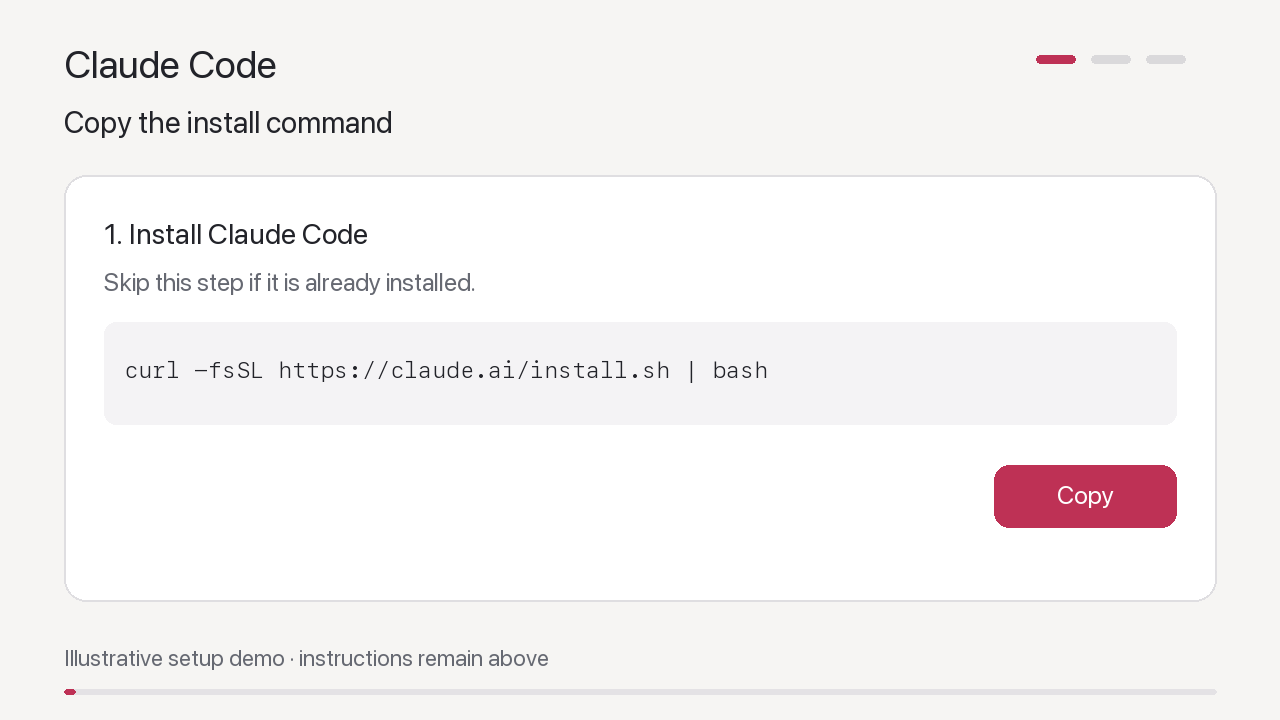
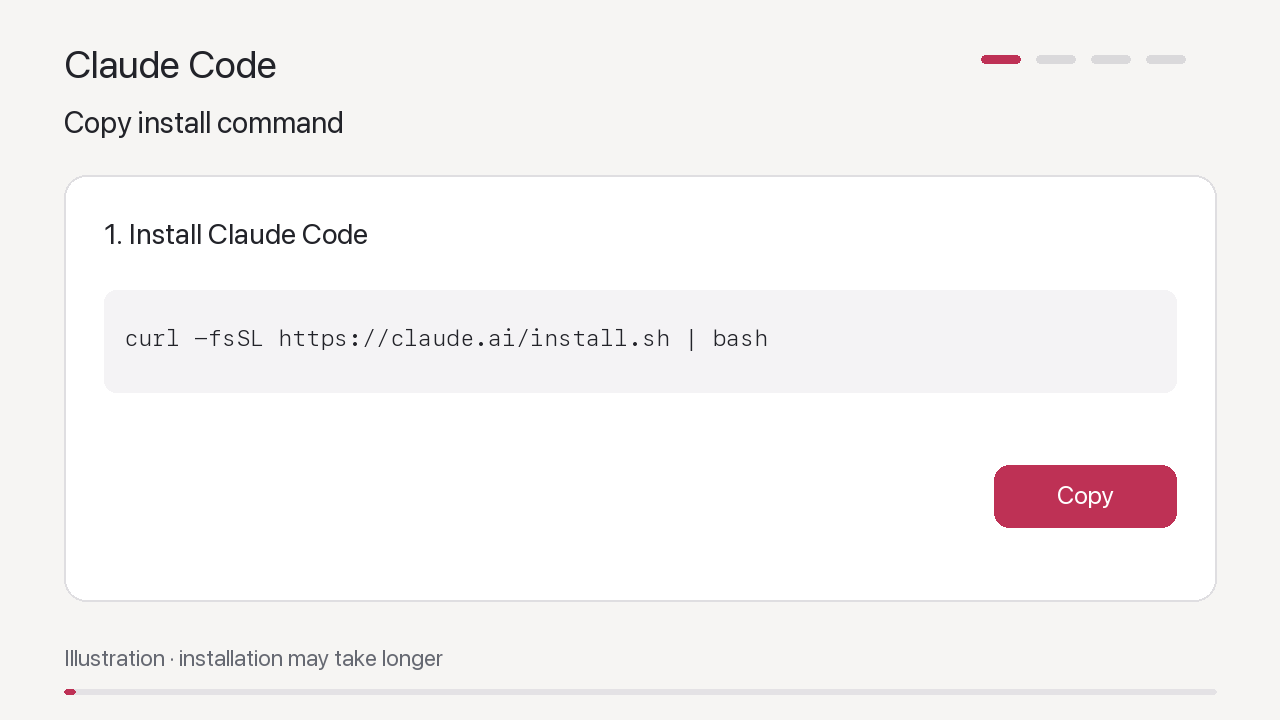
Refine macOS setup branding, instructions and animation pace

diff --git a/macos/AgentMeter/Views/SetupDemoView.swift b/macos/AgentMeter/Views/SetupDemoView.swift
@@ -4,47 +4,24 @@ import SwiftUI
 struct SetupDemoView: View {
   let provider: ProviderID
   @Environment(\.accessibilityReduceMotion) private var reduceMotion
-  @State private var playing = true
-  @State private var replayID = 0
   private var name: String { provider == .codex ? "CodexSetup" : "ClaudeSetup" }
   private var providerTitle: String { provider == .codex ? "Codex" : "Claude Code" }
   var body: some View {
-    VStack(alignment: .leading, spacing: 10) {
-      HStack {
-        Text("Setup demo").font(.headline)
-        Spacer()
-        if !reduceMotion {
-          Button {
-            playing.toggle()
-          } label: {
-            Label(playing ? "Pause" : "Play", systemImage: playing ? "pause.fill" : "play.fill")
-          }.buttonStyle(.borderless).font(.caption)
-          Button {
-            replayID += 1
-            playing = true
-          } label: {
-            Label("Replay", systemImage: "arrow.counterclockwise")
-          }.buttonStyle(.borderless).font(.caption)
-        }
-      }
-      AnimatedSetupImage(name: name, playing: playing, replayID: replayID, reduceMotion: reduceMotion)
-        .aspectRatio(16.0 / 9.0, contentMode: .fit)
-        .frame(maxWidth: .infinity)
-        .clipShape(RoundedRectangle(cornerRadius: 10))
-        .overlay(RoundedRectangle(cornerRadius: 10).stroke(.primary.opacity(0.08), lineWidth: 1))
-        .accessibilityLabel("\(providerTitle) setup demo. Copy the install command into Terminal, then run the sign-in command.")
-    }.padding(.top, 8)
+    AnimatedSetupImage(name: name, reduceMotion: reduceMotion)
+      .aspectRatio(16.0 / 9.0, contentMode: .fit)
+      .frame(maxWidth: .infinity)
+      .clipShape(RoundedRectangle(cornerRadius: 10))
+      .overlay(RoundedRectangle(cornerRadius: 10).stroke(.primary.opacity(0.08), lineWidth: 1))
+      .accessibilityLabel("How to install \(providerTitle) and sign in using Terminal.")
+      .padding(.top, 8)
   }
 }
 
 private struct AnimatedSetupImage: NSViewRepresentable {
   let name: String
-  let playing: Bool
-  let replayID: Int
   let reduceMotion: Bool
   final class Coordinator {
     var resource: String?
-    var replayID = -1
   }
   func makeCoordinator() -> Coordinator { Coordinator() }
   func makeNSView(context: Context) -> NSImageView {
@@ -59,16 +36,15 @@ private struct AnimatedSetupImage: NSViewRepresentable {
   func updateNSView(_ view: NSImageView, context: Context) {
     let fileExtension = reduceMotion ? "png" : "gif"
     let resource = "\(name).\(fileExtension)"
-    if context.coordinator.resource != resource || context.coordinator.replayID != replayID {
+    if context.coordinator.resource != resource {
       view.animates = false
       view.image = nil
       if let url = Bundle.main.url(forResource: name, withExtension: fileExtension) {
         view.image = NSImage(contentsOf: url)
       }
       context.coordinator.resource = resource
-      context.coordinator.replayID = replayID
     }
-    view.animates = playing && !reduceMotion
+    view.animates = !reduceMotion
   }
   static func dismantleNSView(_ view: NSImageView, coordinator: Coordinator) {
     view.animates = false

diff --git a/macos/AgentMeter/Views/SetupView.swift b/macos/AgentMeter/Views/SetupView.swift
@@ -110,21 +110,14 @@ struct SetupView: View {
     }
   }
   private func providerInstructions(_ provider: ProviderID) -> some View {
-    VStack(alignment: .leading, spacing: 16) {
+    VStack(alignment: .leading, spacing: 22) {
       heading(provider == .codex ? "Set up Codex" : "Set up Claude Code",
         "Llumi uses the locally installed command-line tool. Install it and sign in to get started.")
-      Text("Open Terminal from Applications → Utilities. Copy each command, paste it into Terminal, then press Return.")
+      Text("Open Terminal, paste each command, then press Return.")
         .font(.callout).foregroundStyle(.secondary)
       CommandBlock(title: "1. Install \(provider == .codex ? "Codex" : "Claude Code")",
-        explanation: provider == .codex ? "Installs Codex using Homebrew. Skip this if Codex is already installed." : "Runs Anthropic’s official installer. Skip this if Claude Code is already installed.",
         command: ProviderSetup.install(provider))
-      if provider == .codex {
-        Text("Homebrew is required for this command. If you don’t have it, the official guide also offers a standalone installer.")
-          .font(.caption).foregroundStyle(.secondary)
-      }
-      CommandBlock(title: "2. Sign in", explanation: provider == .codex
-        ? "Opens Codex’s sign-in flow. Choose your ChatGPT subscription account."
-        : "Opens Claude Code’s sign-in flow. Choose your Claude subscription account, not Console/API billing.",
+      CommandBlock(title: "2. Sign in",
         command: ProviderSetup.login(provider))
       HStack {
         checkAgain
@@ -159,13 +152,11 @@ struct ProviderSwitchRow: View {
 
 private struct CommandBlock: View {
   let title: String
-  let explanation: String
   let command: String
   @State private var copied = false
   var body: some View {
-    VStack(alignment: .leading, spacing: 7) {
+    VStack(alignment: .leading, spacing: 10) {
       Text(title).font(.headline)
-      Text(explanation).font(.callout).foregroundStyle(.secondary)
       HStack(spacing: 12) {
         Text(command).font(.system(.callout, design: .monospaced)).textSelection(.enabled)
           .frame(maxWidth: .infinity, alignment: .leading)

diff --git a/macos/AgentMeter/Views/Brand.swift b/macos/AgentMeter/Views/Brand.swift
@@ -1,23 +1,19 @@
+import AppKit
 import SwiftUI
 
 struct MeterMark: View {
   var dimension: CGFloat = 22
+  private static let appIcon = Bundle.main.url(forResource: "Llumi", withExtension: "icns")
+    .flatMap { NSImage(contentsOf: $0) }
   var body: some View {
-    Canvas { context, size in
-      var arc = Path()
-      arc.move(to: CGPoint(x: size.width * 0.12, y: size.height * 0.72))
-      arc.addCurve(to: CGPoint(x: size.width * 0.88, y: size.height * 0.72),
-        control1: CGPoint(x: size.width * 0.12, y: size.height * 0.1),
-        control2: CGPoint(x: size.width * 0.88, y: size.height * 0.1))
-      context.stroke(arc, with: .foreground, style: StrokeStyle(lineWidth: size.width * 2.5 / 22, lineCap: .round))
-      var needle = Path()
-      needle.move(to: CGPoint(x: size.width * 0.47, y: size.height * 0.64))
-      needle.addLine(to: CGPoint(x: size.width * 0.75, y: size.height * 0.35))
-      needle.addLine(to: CGPoint(x: size.width * 0.55, y: size.height * 0.75))
-      needle.closeSubpath()
-      context.fill(needle, with: .foreground)
-      context.fill(Path(ellipseIn: CGRect(x: size.width * 0.43, y: size.height * 0.63,
-        width: size.width * 0.16, height: size.height * 0.16)), with: .foreground)
+    Group {
+      if let appIcon = Self.appIcon {
+        Image(nsImage: appIcon)
+          .renderingMode(.original)
+          .resizable()
+          .interpolation(.high)
+          .scaledToFit()
+      }
     }.frame(width: dimension, height: dimension).accessibilityHidden(true)
   }
 }

diff --git a/scripts/macos/generate-setup-demos.py b/scripts/macos/generate-setup-demos.py
@@ -1,5 +1,5 @@
 #!/usr/bin/env python3
-"""Render illustrative, five-second setup guides. Requires Pillow; no live accounts.
+"""Render illustrative, ten-second setup guides. Requires Pillow; no live accounts.
 
 Commands mirror ProviderSetup. Terminal/browser artwork is synthetic and installation
 waits are explicitly shortened. System fonts are local build inputs, not bundled.
@@ -35,23 +35,20 @@ def frame(provider, install, login, index):
     image = Image.new("RGB", SIZE, BG)
     draw = ImageDraw.Draw(image)
     stage = 0 if index < 30 else 1 if index < 60 else 2 if index < 80 else 3
-    labels = ["Copy the install command", "Paste into Terminal · press Return",
-              "Run the sign-in command", "Complete sign-in in your browser"]
+    labels = ["Copy install command", "Paste into Terminal and press Return",
+              "Run sign-in command", "Finish signing in"]
     text(draw, (64, 40), provider, 39)
     text(draw, (64, 104), labels[stage], 30)
-    for step in range(3):
-        draw.rounded_rectangle((1036 + step * 55, 55, 1075 + step * 55, 63),
-                               radius=4, fill=ACCENT if step <= min(stage, 2) else "#dad9db")
+    for step in range(4):
+        draw.rounded_rectangle((981 + step * 55, 55, 1020 + step * 55, 63),
+                               radius=4, fill=ACCENT if step <= stage else "#dad9db")
     panel = (64, 175, 1216, 601)
     draw.rounded_rectangle(panel, radius=22, fill="white", outline="#dfdee1", width=2)
     if stage == 0:
         text(draw, (104, 215), "1. Install " + provider, 29)
-        text(draw, (104, 266), "Skip this step if it is already installed.", 25, MUTED)
-        draw.rounded_rectangle((104, 322, 1176, 424), radius=12, fill="#f4f3f5")
-        text(draw, (124, 355), install, 23, mono=True)
+        draw.rounded_rectangle((104, 290, 1176, 392), radius=12, fill="#f4f3f5")
+        text(draw, (124, 323), install, 23, mono=True)
         button(draw, (994, 465, 1176, 527), "Copied" if index > 15 else "Copy")
-        if index > 15:
-            text(draw, (104, 482), "Next, open Terminal.", 26, MUTED)
     elif stage in (1, 2):
         draw.rounded_rectangle((64, 175, 1216, 234), radius=22, fill="#f0eff1")
         draw.rectangle((65, 206, 1215, 234), fill="#f0eff1")
@@ -61,17 +58,14 @@ def frame(provider, install, login, index):
         if stage == 1:
             text(draw, (105, 278), "$ " + install, 24, mono=True)
             text(draw, (105, 346), "Installing…", 27, MUTED)
-            text(draw, (105, 524), "Installation time shortened in this demo", 23, MUTED)
         else:
             text(draw, (105, 278), "$ " + login, 28, mono=True)
-            text(draw, (105, 347), "Your browser opens for sign-in.", 29, MUTED)
     else:
         text(draw, (104, 211), "Browser sign-in", 24, MUTED)
         text(draw, (104, 302), "Sign in to " + ("ChatGPT" if provider == "Codex" else "Claude"), 42)
-        text(draw, (104, 379), "Use the subscription account you want to monitor.", 27, MUTED)
         button(draw, (104, 462, 347, 528), "Continue")
-        text(draw, (397, 479), "Then return to Llumi and choose Retry.", 27, MUTED)
-    text(draw, (64, 643), "Illustrative setup demo · instructions remain above", 23, MUTED)
+        text(draw, (397, 479), "Return to Llumi → Retry", 27, MUTED)
+    text(draw, (64, 643), "Illustration · installation may take longer", 23, MUTED)
     draw.rounded_rectangle((64, 689, 1216, 694), radius=3, fill="#e4e2e5")
     draw.rounded_rectangle((64, 689, 64 + max(4, int(1152 * (index + 1) / 100)), 694), radius=3, fill=ACCENT)
     return image
@@ -86,8 +80,8 @@ def main():
         frames = [frame(provider, install, login, i) for i in range(100)]
         frames[0].save(OUT / (name + ".png"), optimize=True)
         frames[0].save(OUT / (name + ".gif"), save_all=True, append_images=frames[1:],
-                       duration=50, loop=0, optimize=True, disposal=2)
-        print(name + ": 1280×720, 5 seconds; synthetic terminal/browser artwork")
+                       duration=100, loop=0, optimize=True, disposal=2)
+        print(name + ": 1280×720, 10 seconds; synthetic terminal/browser artwork")
 
 
 if __name__ == "__main__":

diff --git a/docs/releases/2026-10-macos-1.1.3-preview.md b/docs/releases/2026-10-macos-1.1.3-preview.md
@@ -6,7 +6,9 @@ Version 1.1.3/build 3 is a local review candidate on 5 October 2026. The owner r
 
 - Light setup and a minimal welcome screen; light appearance migrates once, then later choices are respected.
 - Persistent Codex/Claude monitoring switches in setup and Settings. Disabled providers stop usage/activity work and disappear from Usage and the monitor.
-- Simplified setup copy with bundled five-second illustrative demos, pause/replay controls and reduced-motion posters.
+- Simplified provider setup with two copy-only command steps and a short Terminal instruction; installation, prerequisite and account-choice commentary removed.
+- Bundled ten-second illustrative animations at half the original speed, with no visible demo heading or playback controls, and reduced-motion posters.
+- Welcome and shared in-app branding use the bundled app icon, matching the website's Raspberry gauge artwork.
 - Equal provider card height, removed redundant copy, Retry and retained diagnostics.
 - Free monitor dragging with a movement threshold, saved display-relative position, screen bounds handling and Reset Position.
 - Updates in Settings, automatic signed information checks on foreground open and scheduled checks, an available-update banner, and native Sparkle installation.
@@ -19,6 +21,8 @@ The macOS suite passed 109 tests with zero failures. Distribution tooling passed
 
 The local app and DMG use the existing Developer ID publisher/team, Hardened Runtime and secure timestamps. Strict nested code verification passed. Pinned Sparkle tooling generated and verified the private feed and archive signatures. This candidate has not been submitted to Apple for notarization and is not a public release artifact.
 
+The owner's subsequent setup refinement passed a fresh universal Release build, 109 macOS tests with zero failures, the production privacy check, bundle validation and strict nested signature verification. Native review confirmed the actual icon on Welcome, simplified Codex and Claude Code pages, and the removal of the demo heading and controls. Animation metadata verifies 100 frames at 100 milliseconds each, for ten seconds per loop. The earlier preview bundle is retained locally. Installed 1.1.2's executable hash is unchanged.
+
 Native Release review verified About displays 1.1.3, the light welcome and provider switches, both setup guides/demos, Settings update controls, and a manual update check. Turning Claude monitoring off removed its Usage card; re-enabling it immediately queried usage. Both providers were restored enabled afterward. The manual check reported public 1.1.2 as the newest published version while the preview ran 1.1.3.
 
 Monitor geometry, drag threshold, persistence and screen-change cases passed unit tests. The monitor's hover/expanded rendering was captured in a Debug fixture. Physical drag and display-change acceptance remain for the owner's review.
@@ -27,4 +31,4 @@ Monitor geometry, drag threshold, persistence and screen-change cases passed uni
 
 The actual `/Applications/Llumi.app` remains 1.1.2/build 2 with its original executable hash. A recoverable bundle and preference backup, signed 1.1.3 preview, private DMG/feed and reversible update runbook are held outside the repository in the owner's local cache.
 
-No local feed server or installed-host feed override has been started. The private update has not been downloaded, installed or accepted. The unchanged signed 1.1.2 host must still demonstrate actual localhost transport, signed feed/archive acceptance, installation and relaunch. A successful curl or signature-tool check alone does not establish that flow. Restore the previous feed preference after the test. Public publication requires the owner's later explicit approval and the normal notarization/distribution checks.
+No local feed server or installed-host feed override has been started. The private update has not been downloaded, installed or accepted. The existing private DMG/feed predates the setup refinement and must be regenerated and verified before a private update test. The unchanged signed 1.1.2 host must still demonstrate actual localhost transport, signed feed/archive acceptance, installation and relaunch. A successful curl or signature-tool check alone does not establish that flow. Restore the previous feed preference after the test. Public publication requires the owner's later explicit approval and the normal notarization/distribution checks.

diff --git a/docs/product-spec/settings.md b/docs/product-spec/settings.md
@@ -3,7 +3,9 @@
 
 Welcome shows only the Llumi mark, name and Get Started action. Setup always uses Light; fresh installs default to Light and existing installs migrate to Light once, preserving subsequent choices. Provider selection uses native switches shared with Settings. Both providers default on; off means no discovery/query/activity monitoring, no Usage card or notch entry. Both off is supported. Re-enabling checks immediately. Pending disabled-provider results must not publish.
 
-Provider guides retain copy-only install/sign-in commands and prerequisites, with a bundled five-second illustrative Setup demo, Pause/Replay and a static Reduce Motion frame. Retry replaces Check Again. Instruction copy is brief; redundant privacy, diagnostic and background-availability explanations leave normal UI. Diagnostic export remains restricted.
+Provider guides retain copy-only install/sign-in commands and an official guide link. Show one short instruction to open Terminal, paste each command and press Return, then two numbered command steps. Omit installation commentary, prerequisite paragraphs and account-choice commentary. Llumi never executes these commands. The bundled illustrative animation appears directly, without a Setup demo heading or Pause/Replay controls; each slide lasts twice as long as the earlier preview (ten seconds per loop). Reduce Motion uses the static poster. Retry replaces Check Again. Diagnostic export remains restricted.
+
+The welcome and shared in-app Llumi mark use the actual bundled app icon, preserving the Raspberry gauge geometry and colors used by the website instead of reconstructing a different monochrome gauge. This refinement is limited to the local macOS 1.1.3 preview; Windows development, usage-limit changes and public release remain parked.
 
 Settings includes Updates with version, Check for Updates and Automatically check for updates. New and existing installations enable automatic checks once in 1.1.3; later user choices persist in Sparkle's own preferences. After setup, foreground launches/reopens probe the signed feed without no-update/error popups. An available-update banner offers Update and Later; standard Sparkle UI performs user-approved installation. Coalesce sessions and hide the banner when standard update UI is shown. Login launch stays quiet. No silent installation, no profile data, and no independent update networking.
 
